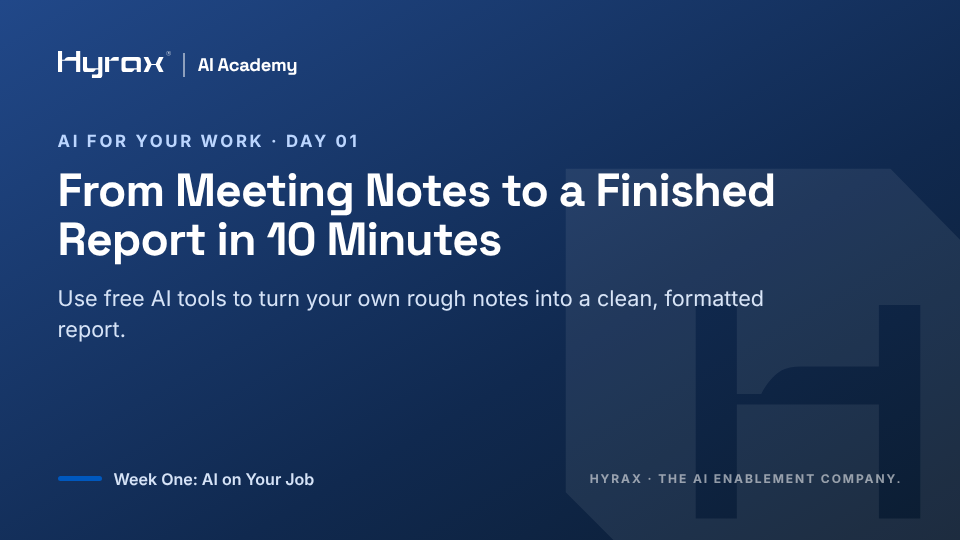
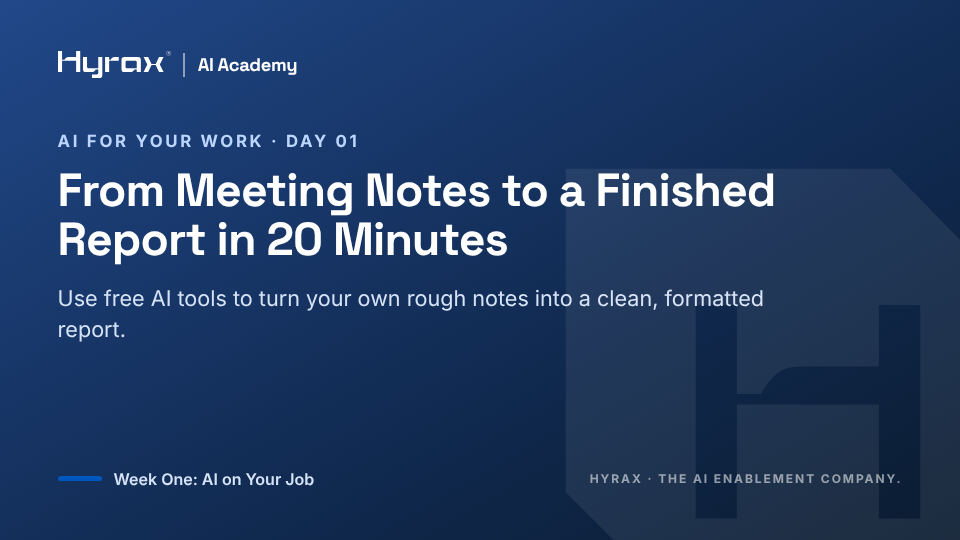
Make Day 1's time match the rest of the course
The title and opening still promised 10 minutes while the lesson,
homepage and Day 10 say about 20. Use 20 everywhere and regenerate
the Day 1 cover.

Claude-Session: https://claude.ai/code/session_011rBQeTi17E5CmujxQ9qBJ2

Changed region(s): [[0.2812, 0.4148, 0.5312, 0.4741]]

diff --git a/data/track_a_course/day01/lesson.md b/data/track_a_course/day01/lesson.md
@@ -1,10 +1,10 @@
 ---
 day: 1
-title: From Meeting Notes to a Finished Report in 10 Minutes
+title: From Meeting Notes to a Finished Report in 20 Minutes
 subtitle: Use free AI tools to turn your own rough notes into a clean, formatted report.
 ---
 
-# From Meeting Notes to a Finished Report in 10 Minutes
+# From Meeting Notes to a Finished Report in 20 Minutes
 
 **Read time: 8 minutes · Task: 10–15 minutes**
 
